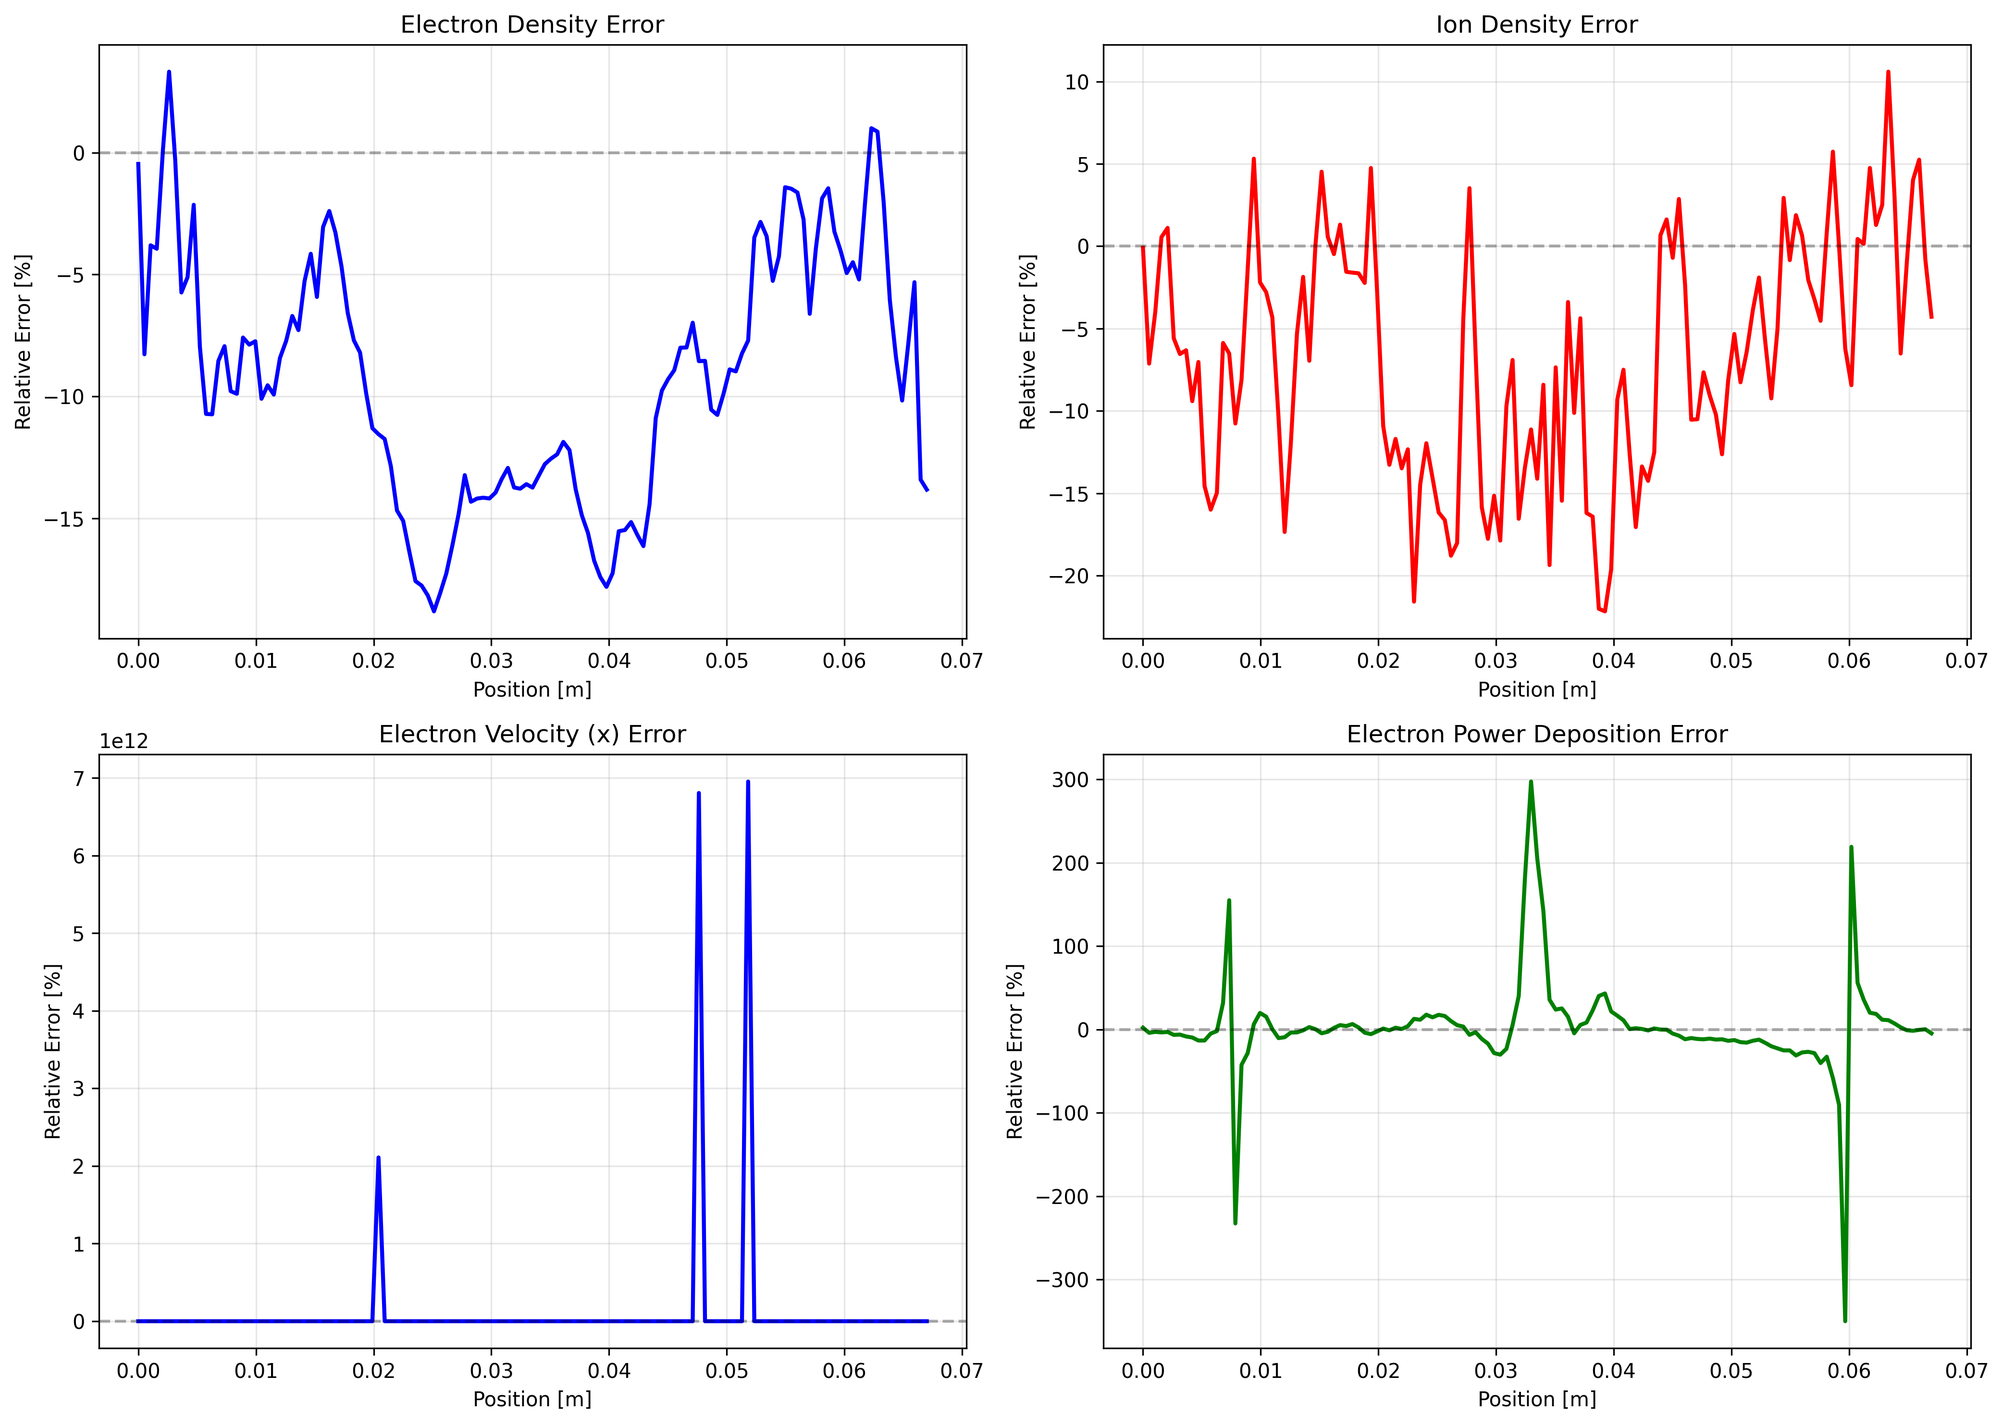
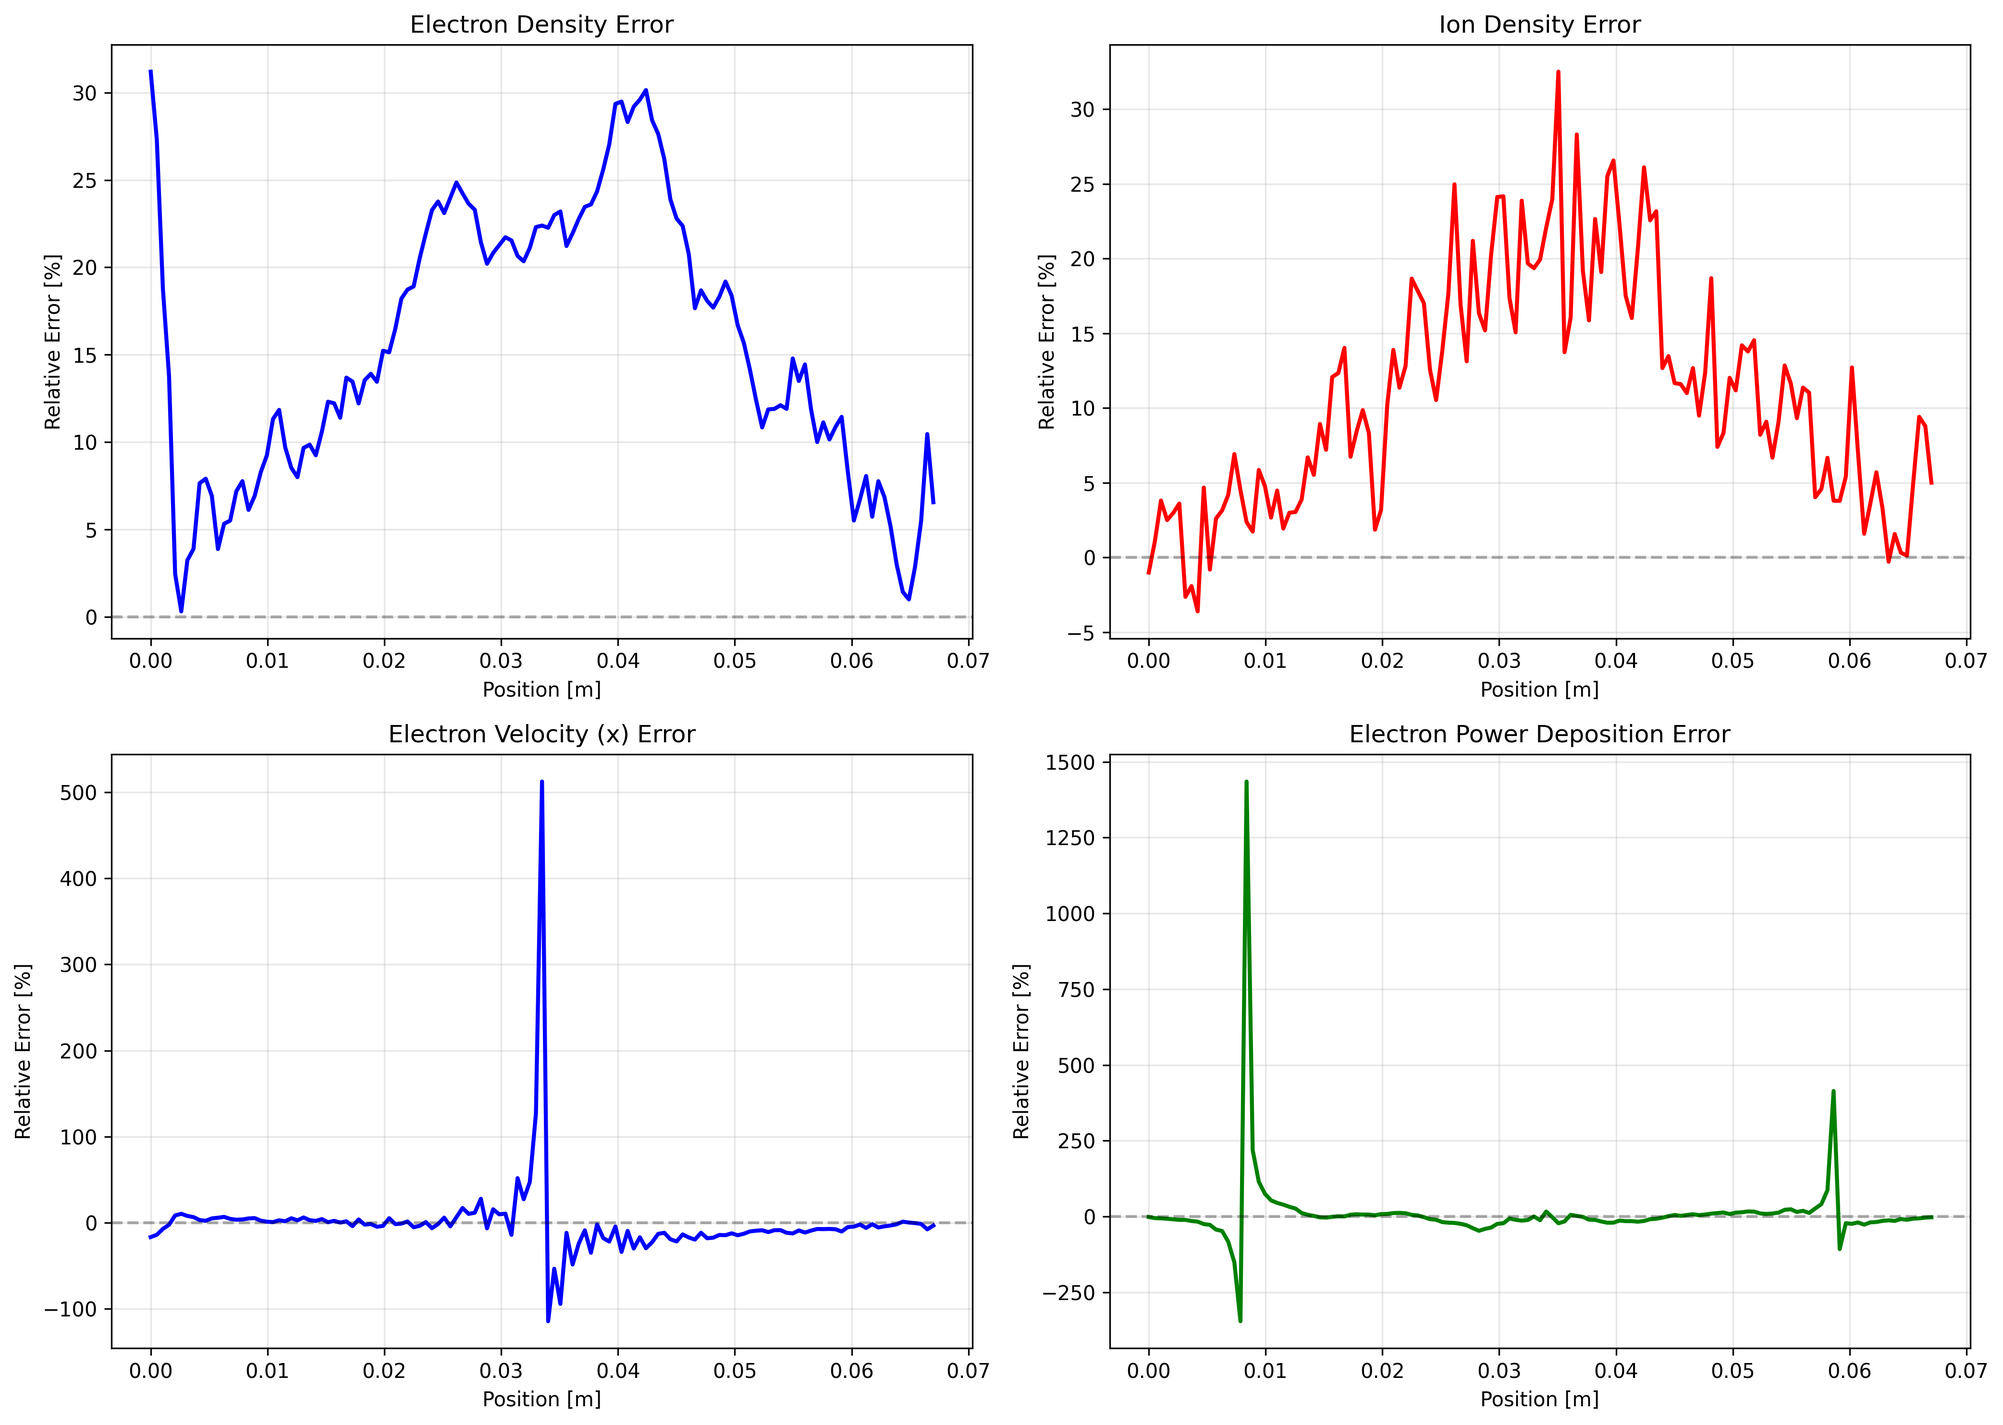
latest

diff --git a/dpmsa_benchmarking.py b/dpmsa_benchmarking.py
@@ -11,6 +11,7 @@ Author: Manef
 import os
 import numpy as np
 import matplotlib.pyplot as plt
+import matplotlib.lines as mlines
 from matplotlib.gridspec import GridSpec
 import pickle
 from pathlib import Path
@@ -132,7 +133,7 @@ class DPMSA_Benchmark:
         
         return ax
     
-    def compare_velocity(self, time_index=-1, average=30, ax=None, component=0):
+    def compare_velocity(self, time_index=-1, average=30, ax=None, component=0, min_density_fraction=1e-3):
         """
         Compare electron and ion velocity profiles
         
@@ -155,6 +156,18 @@ class DPMSA_Benchmark:
             Ve_with_ms = np.mean(
                 self.sim_with_ms.particle_data[ele]["V"][i_start:i_end, :, component], axis=0
             )
+            ne_no_ms = np.mean(
+                self.sim_no_ms.particle_data[ele]["n"][i_start:i_end], axis=0
+            )
+            ne_with_ms = np.mean(
+                self.sim_with_ms.particle_data[ele]["n"][i_start:i_end], axis=0
+            )
+
+            # Mask very low-density cells where velocity averages are numerically noisy.
+            ne_thr_no_ms = np.max(ne_no_ms) * min_density_fraction
+            ne_thr_with_ms = np.max(ne_with_ms) * min_density_fraction
+            Ve_no_ms = np.where(ne_no_ms >= ne_thr_no_ms, Ve_no_ms, np.nan)
+            Ve_with_ms = np.where(ne_with_ms >= ne_thr_with_ms, Ve_with_ms, np.nan)
             
             ax.plot(self.x, Ve_no_ms, 'b-', linewidth=2, label='Electron (No M&S)')
             ax.plot(self.x, Ve_with_ms, 'b--', linewidth=2, label='Electron (With M&S)')
@@ -166,6 +179,17 @@ class DPMSA_Benchmark:
             Vi_with_ms = np.mean(
                 self.sim_with_ms.particle_data[ion]["V"][i_start:i_end, :, component], axis=0
             )
+            ni_no_ms = np.mean(
+                self.sim_no_ms.particle_data[ion]["n"][i_start:i_end], axis=0
+            )
+            ni_with_ms = np.mean(
+                self.sim_with_ms.particle_data[ion]["n"][i_start:i_end], axis=0
+            )
+
+            ni_thr_no_ms = np.max(ni_no_ms) * min_density_fraction
+            ni_thr_with_ms = np.max(ni_with_ms) * min_density_fraction
+            Vi_no_ms = np.where(ni_no_ms >= ni_thr_no_ms, Vi_no_ms, np.nan)
+            Vi_with_ms = np.where(ni_with_ms >= ni_thr_with_ms, Vi_with_ms, np.nan)
             
             ax.plot(self.x, Vi_no_ms, 'r-', linewidth=2, label='Ion (No M&S)')
             ax.plot(self.x, Vi_with_ms, 'r--', linewidth=2, label='Ion (With M&S)')
@@ -269,32 +293,35 @@ class DPMSA_Benchmark:
         ) * dx
         
         n_files = min(self.sim_no_ms.n_files, self.sim_with_ms.n_files)
+        # Index 0 is an unfilled buffer slot in Hdf5Viewer arrays.
+        start_idx = 1
+        end_idx = n_files + 1
         
         ax.plot(
-            self.t[:n_files], 
-            n_electrons_no_ms[:n_files], 
+            self.t[start_idx:end_idx], 
+            n_electrons_no_ms[start_idx:end_idx], 
             'b-', 
             linewidth=2, 
             label='Electrons (No M&S)'
         )
         ax.plot(
-            self.t[:n_files], 
-            n_electrons_with_ms[:n_files], 
+            self.t[start_idx:end_idx], 
+            n_electrons_with_ms[start_idx:end_idx], 
             'b--', 
             linewidth=2, 
             label='Electrons (With M&S)'
         )
         
         ax.plot(
-            self.t[:n_files], 
-            n_ions_no_ms[:n_files], 
+            self.t[start_idx:end_idx], 
+            n_ions_no_ms[start_idx:end_idx], 
             'r-', 
             linewidth=2, 
             label='Ions (No M&S)'
         )
         ax.plot(
-            self.t[:n_files], 
-            n_ions_with_ms[:n_files], 
+            self.t[start_idx:end_idx], 
+            n_ions_with_ms[start_idx:end_idx], 
             'r--', 
             linewidth=2, 
             label='Ions (With M&S)'
@@ -319,6 +346,19 @@ class DPMSA_Benchmark:
         i_end = min(i_start + average, i + 1)
         
         errors = {}
+
+        def relative_stats(ref, val, min_ref_frac=1e-6):
+            ref_abs = np.abs(ref)
+            thresh = np.max(ref_abs) * min_ref_frac
+            mask = ref_abs > thresh
+            if not np.any(mask):
+                return None
+            rel = (val[mask] - ref[mask]) / ref[mask]
+            return {
+                'max_relative': float(np.max(np.abs(rel))),
+                'mean_relative': float(np.mean(np.abs(rel))),
+                'rms': float(np.sqrt(np.mean(rel**2))),
+            }
         
         # Electron density error
         ne_no_ms = np.mean(
@@ -327,11 +367,9 @@ class DPMSA_Benchmark:
         ne_with_ms = np.mean(
             self.sim_with_ms.particle_data[ele]["n"][i_start:i_end], axis=0
         )
-        errors['electron_density'] = {
-            'max_relative': float(np.max(np.abs((ne_with_ms - ne_no_ms) / ne_no_ms))),
-            'mean_relative': float(np.mean(np.abs((ne_with_ms - ne_no_ms) / ne_no_ms))),
-            'rms': float(np.sqrt(np.mean(((ne_with_ms - ne_no_ms) / ne_no_ms)**2)))
-        }
+        ne_stats = relative_stats(ne_no_ms.value, ne_with_ms.value)
+        if ne_stats is not None:
+            errors['electron_density'] = ne_stats
         
         # Ion density error
         ni_no_ms = np.mean(
@@ -340,11 +378,9 @@ class DPMSA_Benchmark:
         ni_with_ms = np.mean(
             self.sim_with_ms.particle_data[ion]["n"][i_start:i_end], axis=0
         )
-        errors['ion_density'] = {
-            'max_relative': float(np.max(np.abs((ni_with_ms - ni_no_ms) / ni_no_ms))),
-            'mean_relative': float(np.mean(np.abs((ni_with_ms - ni_no_ms) / ni_no_ms))),
-            'rms': float(np.sqrt(np.mean(((ni_with_ms - ni_no_ms) / ni_no_ms)**2)))
-        }
+        ni_stats = relative_stats(ni_no_ms.value, ni_with_ms.value)
+        if ni_stats is not None:
+            errors['ion_density'] = ni_stats
         
         # Power deposition errors (if available)
         if 'Power' in self.sim_no_ms.particle_data[ele]:
@@ -354,14 +390,37 @@ class DPMSA_Benchmark:
             Pe_with_ms = np.mean(
                 self.sim_with_ms.particle_data[ele]["Power"][i_start:i_end], axis=0
             ).value
-            # Avoid division by very small numbers
-            mask = np.abs(Pe_no_ms) > 1e-10
-            if np.any(mask):
-                errors['electron_power'] = {
-                    'max_relative': float(np.max(np.abs((Pe_with_ms[mask] - Pe_no_ms[mask]) / Pe_no_ms[mask]))),
-                    'mean_relative': float(np.mean(np.abs((Pe_with_ms[mask] - Pe_no_ms[mask]) / Pe_no_ms[mask]))),
-                    'rms': float(np.sqrt(np.mean(((Pe_with_ms[mask] - Pe_no_ms[mask]) / Pe_no_ms[mask])**2)))
-                }
+            pe_stats = relative_stats(Pe_no_ms, Pe_with_ms, min_ref_frac=1e-8)
+            if pe_stats is not None:
+                errors['electron_power'] = pe_stats
+
+        if 'Power' in self.sim_no_ms.particle_data[ion]:
+            Pi_no_ms = np.mean(
+                self.sim_no_ms.particle_data[ion]["Power"][i_start:i_end], axis=0
+            ).value
+            Pi_with_ms = np.mean(
+                self.sim_with_ms.particle_data[ion]["Power"][i_start:i_end], axis=0
+            ).value
+            pi_stats = relative_stats(Pi_no_ms, Pi_with_ms, min_ref_frac=1e-8)
+            if pi_stats is not None:
+                errors['ion_power'] = pi_stats
+
+        # Particle-conservation error over time (integrated density trend).
+        n_files = min(self.sim_no_ms.n_files, self.sim_with_ms.n_files)
+        start_idx = 1
+        end_idx = n_files + 1
+        dx = self.sim_no_ms.dx.value
+        n_e_no = np.sum(self.sim_no_ms.particle_data[ele]["n"], axis=1).value * dx
+        n_e_ms = np.sum(self.sim_with_ms.particle_data[ele]["n"], axis=1).value * dx
+        n_i_no = np.sum(self.sim_no_ms.particle_data[ion]["n"], axis=1).value * dx
+        n_i_ms = np.sum(self.sim_with_ms.particle_data[ion]["n"], axis=1).value * dx
+
+        e_cons_stats = relative_stats(n_e_no[start_idx:end_idx], n_e_ms[start_idx:end_idx], min_ref_frac=1e-12)
+        if e_cons_stats is not None:
+            errors['electron_particle_conservation'] = e_cons_stats
+        i_cons_stats = relative_stats(n_i_no[start_idx:end_idx], n_i_ms[start_idx:end_idx], min_ref_frac=1e-12)
+        if i_cons_stats is not None:
+            errors['ion_particle_conservation'] = i_cons_stats
         
         return errors
     
@@ -382,7 +441,9 @@ class DPMSA_Benchmark:
         ne_with_ms = np.mean(
             self.sim_with_ms.particle_data[ele]["n"][i_start:i_end], axis=0
         ).value
-        rel_error_ne = (ne_with_ms - ne_no_ms) / ne_no_ms * 100
+        mask_ne = np.abs(ne_no_ms) > (np.max(np.abs(ne_no_ms)) * 1e-6)
+        rel_error_ne = np.full_like(ne_no_ms, np.nan)
+        rel_error_ne[mask_ne] = (ne_with_ms[mask_ne] - ne_no_ms[mask_ne]) / ne_no_ms[mask_ne] * 100
         
         axes[0, 0].plot(self.x, rel_error_ne, 'b-', linewidth=2)
         axes[0, 0].axhline(0, color='k', linestyle='--', alpha=0.3)
@@ -398,7 +459,9 @@ class DPMSA_Benchmark:
         ni_with_ms = np.mean(
             self.sim_with_ms.particle_data[ion]["n"][i_start:i_end], axis=0
         ).value
-        rel_error_ni = (ni_with_ms - ni_no_ms) / ni_no_ms * 100
+        mask_ni = np.abs(ni_no_ms) > (np.max(np.abs(ni_no_ms)) * 1e-6)
+        rel_error_ni = np.full_like(ni_no_ms, np.nan)
+        rel_error_ni[mask_ni] = (ni_with_ms[mask_ni] - ni_no_ms[mask_ni]) / ni_no_ms[mask_ni] * 100
         
         axes[0, 1].plot(self.x, rel_error_ni, 'r-', linewidth=2)
         axes[0, 1].axhline(0, color='k', linestyle='--', alpha=0.3)
@@ -458,9 +521,9 @@ class DPMSA_Benchmark:
         print("DPMSA BENCHMARK REPORT")
         print("="*60)
         
-        # 1. Main comparison figure (5 subplots)
-        fig = plt.figure(figsize=(18, 12))
-        gs = GridSpec(3, 2, figure=fig, hspace=0.3, wspace=0.3)
+        # 1. Main comparison figure (4 subplots)
+        fig = plt.figure(figsize=(18, 9))
+        gs = GridSpec(2, 2, figure=fig, hspace=0.3, wspace=0.3)
         
         ax1 = fig.add_subplot(gs[0, 0])
         self.compare_densities(time_index=time_index, ax=ax1)
@@ -473,22 +536,28 @@ class DPMSA_Benchmark:
         
         ax4 = fig.add_subplot(gs[1, 1])
         self.compare_particle_evolution(ax=ax4)
+
+        # Remove repeated per-axis legends and use one shared custom legend.
+        for axis in (ax1, ax2, ax3, ax4):
+            legend = axis.get_legend()
+            if legend is not None:
+                legend.remove()
+
+        legend_handles = [
+            mlines.Line2D([0], [0], color='b', linestyle='-', linewidth=2, label='Electron (No M&S)'),
+            mlines.Line2D([0], [0], color='b', linestyle='--', linewidth=2, label='Electron (With M&S)'),
+            mlines.Line2D([0], [0], color='r', linestyle='-', linewidth=2, label='Ion (No M&S)'),
+            mlines.Line2D([0], [0], color='r', linestyle='--', linewidth=2, label='Ion (With M&S)'),
+        ]
+        fig.legend(
+            handles=legend_handles,
+            loc='upper center',
+            ncol=4,
+            bbox_to_anchor=(0.5, 0.975),
+            frameon=True,
+        )
         
-        # Add text summary
-        ax5 = fig.add_subplot(gs[2, :])
         errors = self.compute_relative_errors(time_index=time_index)
-        
-        summary_text = "NUMERICAL ERROR SUMMARY\n\n"
-        for quantity, error_dict in errors.items():
-            summary_text += f"{quantity.upper().replace('_', ' ')}:\n"
-            summary_text += f"  Max: {error_dict['max_relative']*100:.2f}%  "
-            summary_text += f"Mean: {error_dict['mean_relative']*100:.2f}%  "
-            summary_text += f"RMS: {error_dict['rms']*100:.2f}%\n\n"
-        
-        ax5.text(0.1, 0.5, summary_text, transform=ax5.transAxes, 
-                fontsize=11, verticalalignment='center', family='monospace',
-                bbox=dict(boxstyle='round', facecolor='wheat', alpha=0.3))
-        ax5.axis('off')
         
         plt.suptitle('DPMSA Benchmark: Complete Comparison', fontsize=16, y=0.995)
         plt.savefig(os.path.join(output_dir, 'full_comparison.png'), dpi=300, bbox_inches='tight')

diff --git a/pic/diagnostics.py b/pic/diagnostics.py
@@ -237,11 +237,16 @@ class Measure_V(ParticleMeasure):
     def __init__(self, plasma, specie, value_dict):
         super().__init__("V", plasma, specie, value_dict)
         self.values = np.zeros((plasma.N_cells, 3), dtype="float64", order="F")
+        self.n_values = np.zeros((plasma.N_cells), dtype="float64")
         value_dict[(specie.symbol, self.name)] = self.values
 
         self.particles.need_u = True
 
     def record(self):
+        # Accumulate weighted particle count per cell over the same window
+        # used for momentum accumulation, so normalization is time-consistent.
+        self.n_values += self.particles.n
+
         # Record weighted velocity for each component
         for component in range(3):
             info = (
@@ -258,24 +263,34 @@ class Measure_V(ParticleMeasure):
             )
 
     def average(self, N_average):
-        # Divide by density to get weighted average velocity
-        # Account for both averaging window and density calculation
+        # Divide accumulated weighted momentum by accumulated weighted count.
+        denom = self.n_values
+        valid = denom != 0.0
         np.divide(
             self.values,
-            self.particles.n[:, None] * self.plasma.dx * N_average,
-            where=self.particles.n[:, None] != 0.0,
+            denom[:, None],
+            where=valid[:, None],
             out=self.values,
         )
+        self.values[~valid, :] = 0.0
+
+    def reset(self):
+        super().reset()
+        self.n_values.fill(0.0)
 
 
 class Measure_V2(ParticleMeasure):
     def __init__(self, plasma, specie, value_dict):
         super().__init__("V2", plasma, specie, value_dict)
+        self.n_values = np.zeros((plasma.N_cells), dtype="float64")
         value_dict[(specie.symbol, self.name)] = self.values
 
         self.particles.need_u = True
 
     def record(self):
+        # Keep denominator consistent with the averaging window.
+        self.n_values += self.particles.n
+
         # Record weighted squared velocity sum
         info = np.sum(np.square(self.particles.V[: self.particles.Npart]), axis=1) * self.particles.w[: self.particles.Npart]
         particle_to_grid(
@@ -288,13 +303,20 @@ class Measure_V2(ParticleMeasure):
         )
 
     def average(self, N_average):
-        # Divide by density to get weighted average squared velocity
+        # Divide accumulated weighted v^2 sum by accumulated weighted count.
+        denom = self.n_values
+        valid = denom != 0.0
         np.divide(
             self.values,
-            self.particles.n * self.plasma.dx * N_average,
-            where=self.particles.n != 0.0,
+            denom,
+            where=valid,
             out=self.values,
         )
+        self.values[~valid] = 0.0
+
+    def reset(self):
+        super().reset()
+        self.n_values.fill(0.0)
 
 
 class Measure_J(ParticleMeasure):

diff --git a/main.py b/main.py
@@ -154,15 +154,15 @@ def start(parameters, restart=None, wall_time=None, name=None, prof=False):
                 if nt == 10:
                     dpmsa.execute(nt)
                     # Save diagnostics immediately after DPMSA to observe its impact
-                    with h5py.File(path.join(dataFileName, "after_dpmsa.h5"), "w") as f:
-                        pla_obj = pla.diagnostics.measures[0].plasma
-                        grp = f.create_group("time")
-                        grp.attrs["nt"] = nt
-                        grp.attrs["dt"] = pla_obj.dT
-                        grp.attrs["instant_time"] = nt * pla_obj.dT
-                        for m in pla.diagnostics.measures:
-                            m.save(f)
-                            m.reset()
+                    # with h5py.File(path.join(dataFileName, "after_dpmsa.h5"), "w") as f:
+                    #     pla_obj = pla.diagnostics.measures[0].plasma
+                    #     grp = f.create_group("time")
+                    #     grp.attrs["nt"] = nt
+                    #     grp.attrs["dt"] = pla_obj.dT
+                    #     grp.attrs["instant_time"] = nt * pla_obj.dT
+                    #     for m in pla.diagnostics.measures:
+                    #         m.save(f)
+                    #         m.reset()
                 pla.compute_rho()
                 pla.solve_poisson(nt)
                 pla.diags(nt)

diff --git a/pic/MergingSplitting.py b/pic/MergingSplitting.py
@@ -3,7 +3,7 @@ from pic.functions import get_particle_indexes_in_cells
 
 
 class DPMSA:
-    def __init__(self, plasma, cluster_size_min=4, merge_interval=10000, max_merge_fraction=0.01):
+    def __init__(self, plasma, cluster_size_min=4, merge_interval=10000, max_merge_fraction=0.1):
         self.plasma = plasma
         self.N_min = cluster_size_min
         self.merge_interval = merge_interval
